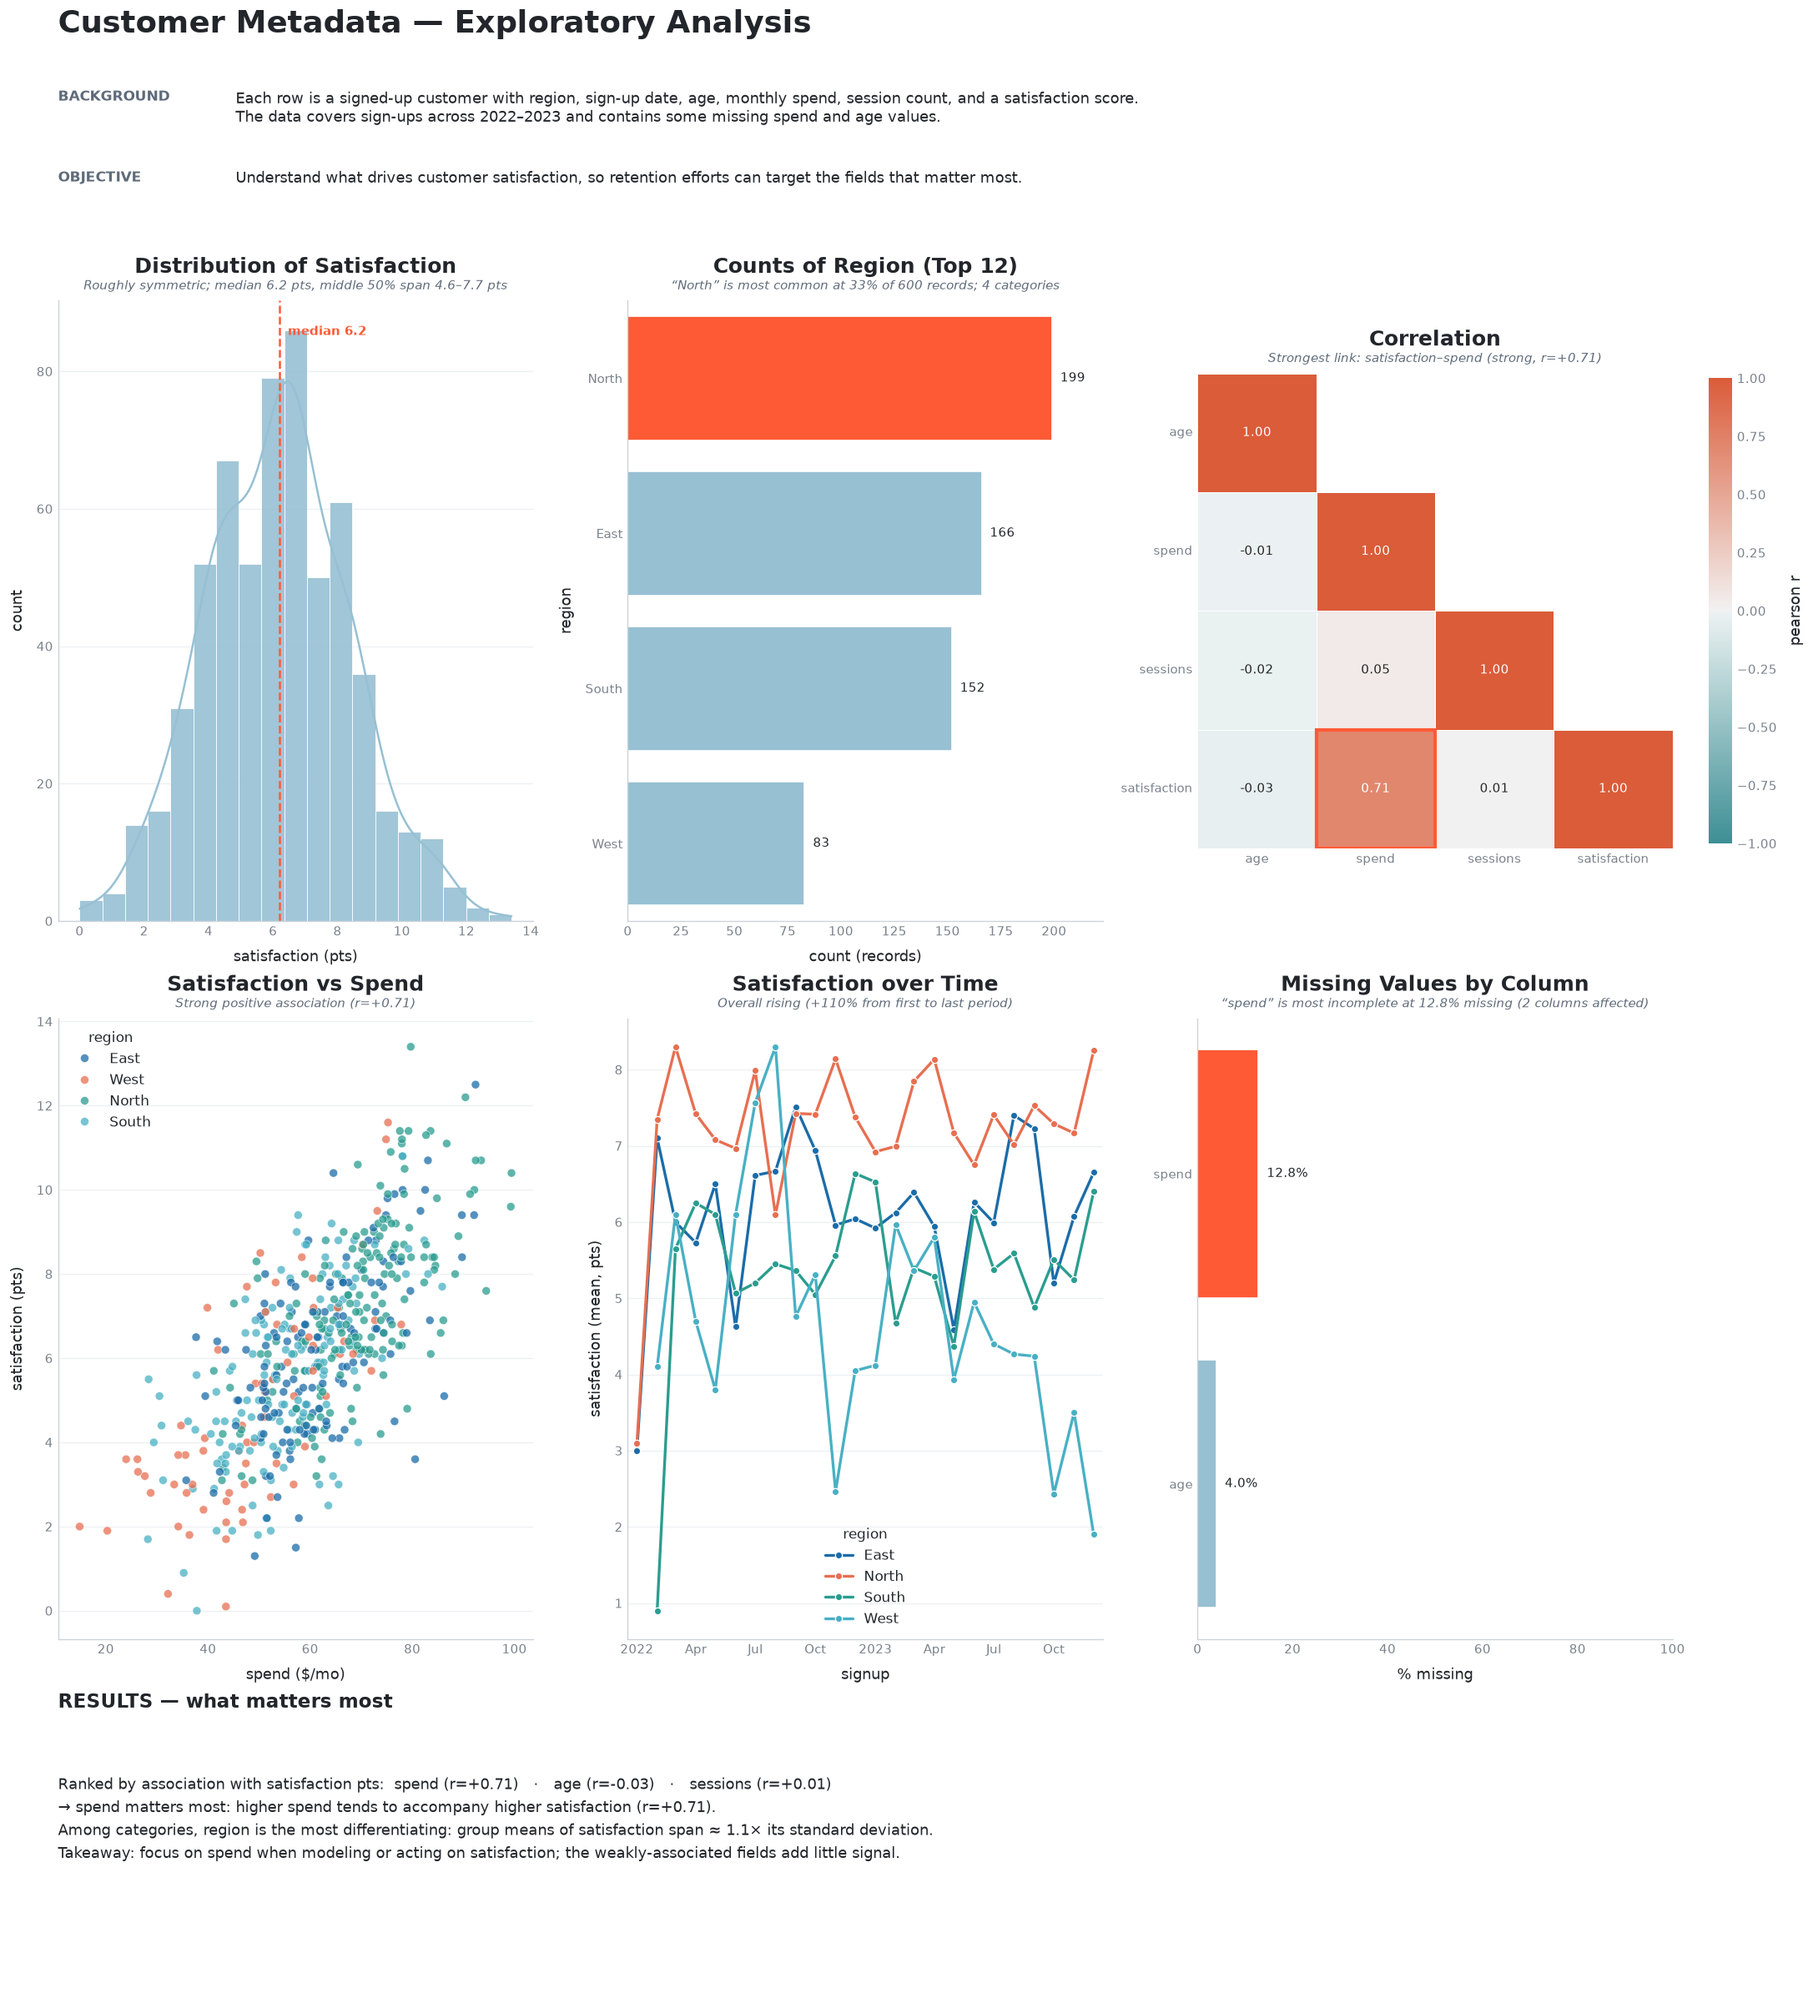
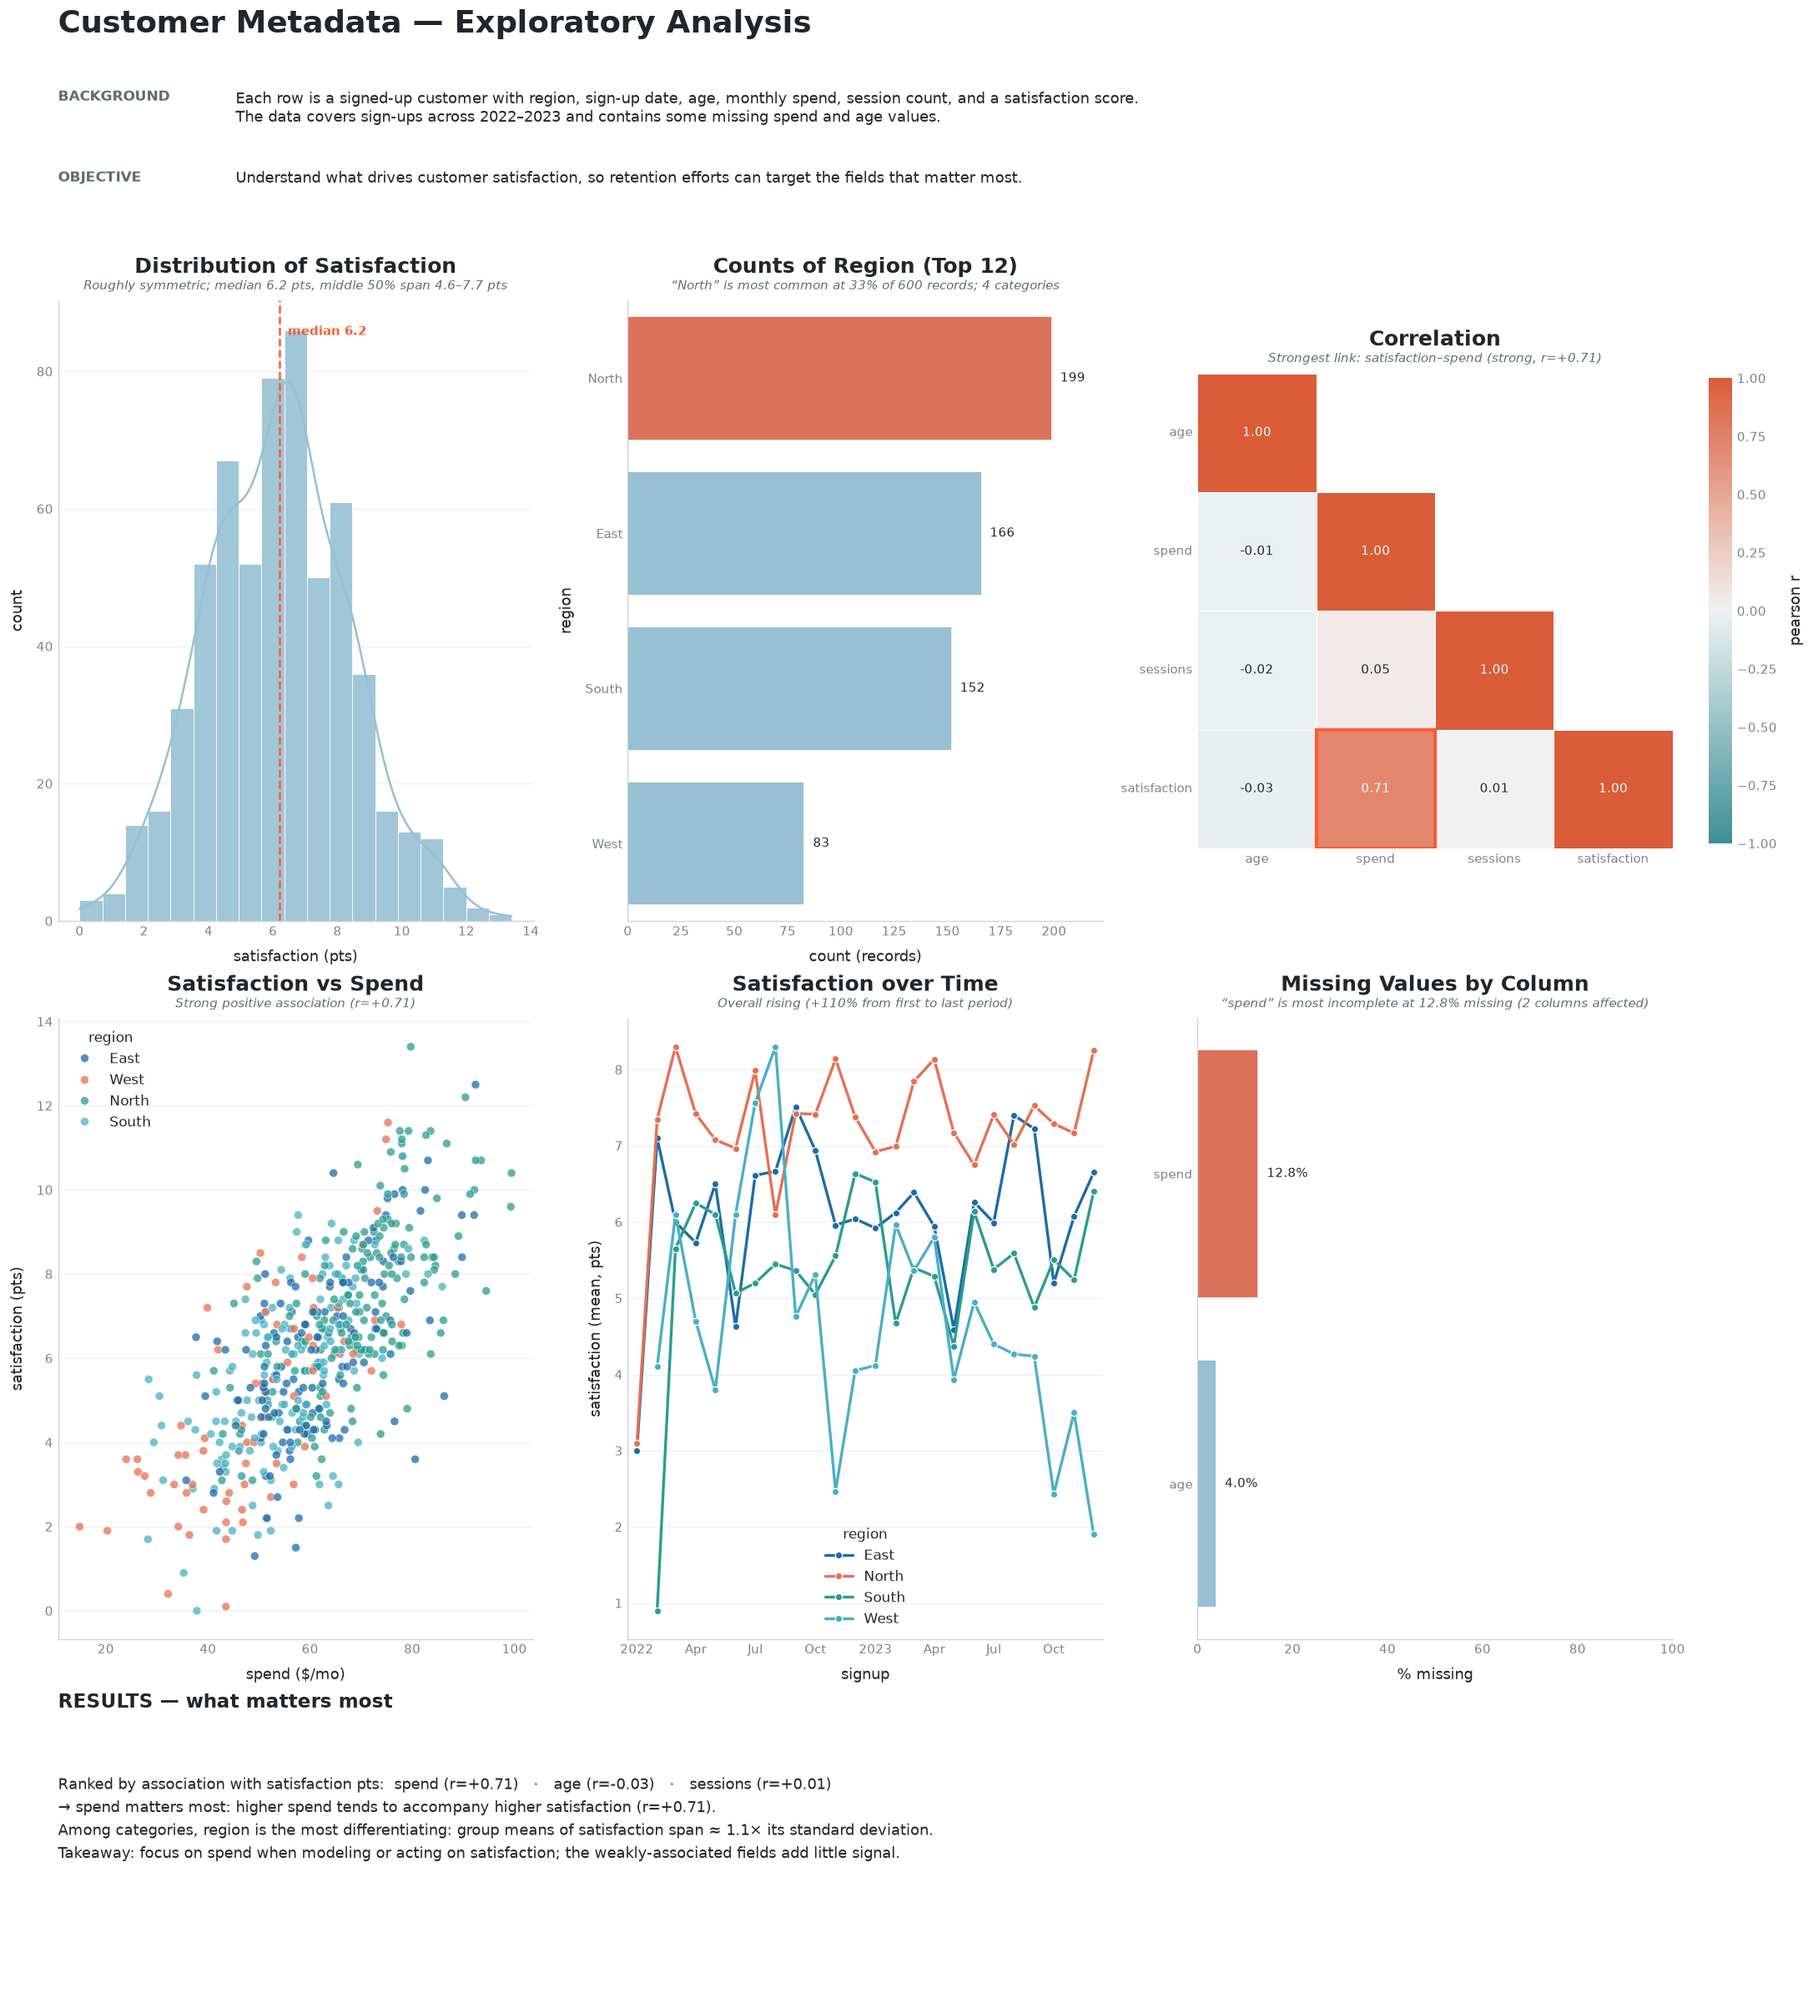
Use a muted coral for highlighted fills
Split the highlight accent in two: bright HIGHLIGHT (#FF5A36) stays for thin
marks that must stay visible (the median line, the strongest-correlation
outline), and a new softer HIGHLIGHT_MUTED (#DC7159) is used for highlighted
*fills* — the top counts bar, the most-incomplete missing bar, and the
highest-median box — so the warm accent no longer clashes with the cool bars
while still standing apart.

_highlight_patch now uses HIGHLIGHT_MUTED; tests and previews updated.
34 tests pass.

Claude-Session: https://claude.ai/code/session_01Dd4o8XkhjckPVTTxTjVDuW

Changed region(s): [[0.3392, 0.1554, 0.5858, 0.2176], [0.6475, 0.4973, 0.7092, 0.6527]]

diff --git a/src/glyph/theme.py b/src/glyph/theme.py
@@ -29,10 +29,14 @@ PALETTE = [
 #: blue so nothing competes with the HIGHLIGHT, while still reading as blue.
 NEUTRAL = "#97C0D3"
 
-#: The one loud color: a bright coral reserved for the single data point worth
-#: noticing (biggest category, most-incomplete column, median line, strongest
-#: correlation).
+#: The loud accent for thin marks that must stay visible — the median line and
+#: the strongest-correlation outline.
 HIGHLIGHT = "#FF5A36"
+
+#: A softer coral for highlighted *fills* (a bar or box among cool-colored
+#: siblings), where the bright accent would be too harsh; still clearly warm,
+#: so the key datum stands apart from the cool neutrals.
+HIGHLIGHT_MUTED = "#DC7159"
 
 #: Sequential colormap for magnitude — an ocean blue→green ramp.
 SEQUENTIAL = "crest"

diff --git a/tests/test_plots.py b/tests/test_plots.py
@@ -60,7 +60,7 @@ def test_counts_highlights_most_frequent_bar(df):
     ax = glyph.counts(df, "group")
     top = mcolors.to_hex(ax.patches[0].get_facecolor())
     rest = mcolors.to_hex(ax.patches[1].get_facecolor())
-    assert top.lower() == theme.HIGHLIGHT.lower()
+    assert top.lower() == theme.HIGHLIGHT_MUTED.lower()
     assert rest.lower() == theme.NEUTRAL.lower()
 
 
@@ -96,7 +96,7 @@ def test_boxplot_highlights_highest_median():
     highlighted = [
         i
         for i, p in enumerate(ax.patches)
-        if mcolors.to_hex(p.get_facecolor()).lower() == theme.HIGHLIGHT.lower()
+        if mcolors.to_hex(p.get_facecolor()).lower() == theme.HIGHLIGHT_MUTED.lower()
     ]
     assert highlighted == [1]
 

diff --git a/src/glyph/plots.py b/src/glyph/plots.py
@@ -490,9 +490,9 @@ def _format_date_axis(ax: plt.Axes) -> None:
 
 
 def _highlight_patch(ax: plt.Axes, index: int) -> None:
-    """Recolor a single bar/box in the highlight color to draw the eye to it."""
+    """Recolor a single bar/box in the muted-coral fill to draw the eye to it."""
     if 0 <= index < len(ax.patches):
-        ax.patches[index].set_facecolor(theme.HIGHLIGHT)
+        ax.patches[index].set_facecolor(theme.HIGHLIGHT_MUTED)
 
 
 def _label_bars(ax: plt.Axes, values, fmt: str = "{:,.0f}") -> None:

diff --git a/CLAUDE.md b/CLAUDE.md
@@ -21,7 +21,7 @@ and users import.
 ```
 src/glyph/
 ├── __init__.py   # public API; calls set_theme() on import
-├── theme.py      # the Glyph look: PALETTE, NEUTRAL, HIGHLIGHT, MUTED, SEQUENTIAL, DIVERGING, set_theme(), color()
+├── theme.py      # the Glyph look: PALETTE, NEUTRAL, HIGHLIGHT (line accent), HIGHLIGHT_MUTED (fill accent), MUTED, SEQUENTIAL, DIVERGING, set_theme(), color()
 ├── plots.py      # the plotting functions (the single-axes public surface)
 ├── insights.py   # data → one-line finding strings + driver ranking (no plotting)
 └── report.py     # report(): composes header + graphs + results into one Figure
